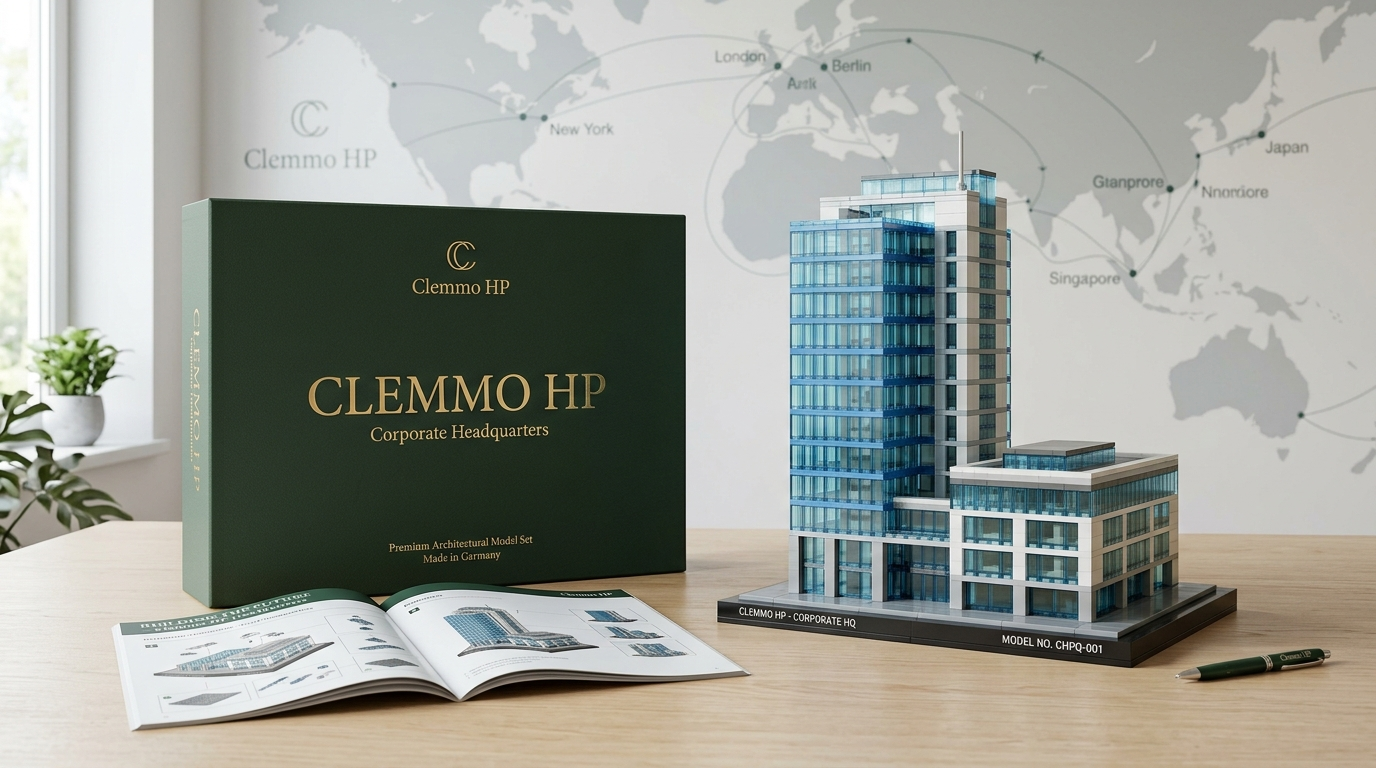
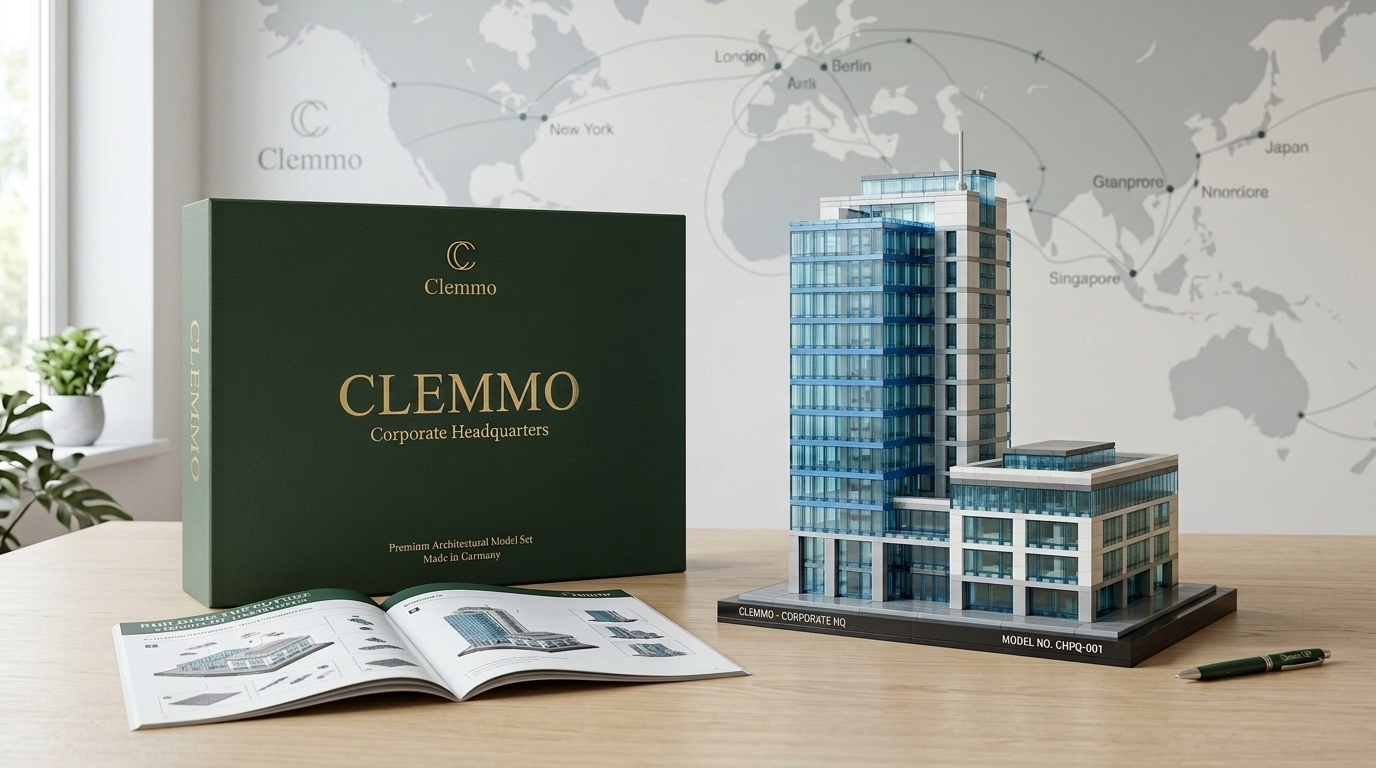
hp

diff --git a/src/components/about/About.jsx b/src/components/about/About.jsx
@@ -64,7 +64,7 @@ export default function About() {
   ];
 
   return (
-    <section id="ueber-uns" className="about-section" aria-label="Über Clemmo HP">
+    <section id="ueber-uns" className="about-section" aria-label="Über Clemmo">
       {/* Subtle organic curved transition edge overlapping the hero */}
       <div className="about-curved-boundary" aria-hidden="true">
         <svg viewBox="0 0 1440 60" fill="none" preserveAspectRatio="none" className="about-curve-svg">
@@ -79,7 +79,7 @@ export default function About() {
           <div className="about-content-col">
             <div className="about-eyebrow">
               <span className="about-eyebrow-rule" aria-hidden="true" />
-              <span className="about-eyebrow-text">Über Clemmo HP</span>
+              <span className="about-eyebrow-text">ÜBER CLEMMO</span>
             </div>
 
             <h2 className="about-headline">
@@ -145,9 +145,9 @@ export default function About() {
                 className="about-model-image"
                 loading="lazy"
               />
-              <div className="about-image-badge" aria-hidden="true">
+              <div className="ai-image-badge" aria-hidden="true">
                 <span className="badge-dot" />
-                <span>MAẞGESCHNEIDERTES CLEMMO MODELL</span>
+                <span>KI-generiertes Bild</span>
               </div>
             </div>
           </div>
@@ -172,6 +172,10 @@ export default function About() {
                     className="capability-thumbnail"
                     loading="lazy"
                   />
+                  <div className="ai-image-badge" aria-hidden="true">
+                    <span className="badge-dot" />
+                    <span>KI-generiertes Bild</span>
+                  </div>
                 </div>
               </div>
             ))}

diff --git a/src/components/process/ProcessStep.jsx b/src/components/process/ProcessStep.jsx
@@ -16,7 +16,7 @@ export const PROCESS_STEPS = [
       'Wir besprechen Ihre Anforderungen, Ziele und Vorstellungen und entwickeln darauf basierend ein maßgeschneidertes Konzept für Ihr individuelles Set.',
     imageSrc: '/process/step1_concept.jpg',
     imageAlt: 'Clemmo Modell- und Set-Skizzen auf Studiotisch mit Bausteinen',
-    badge: 'KONZEPT & SKIZZE',
+    badge: 'KI-generiertes Bild',
   },
   {
     id: '02',
@@ -29,7 +29,7 @@ export const PROCESS_STEPS = [
       'Unsere Designer entwickeln detaillierte Modelle und Konstruktionspläne – präzise, markengerecht und mit Blick auf Funktion, Ästhetik und Umsetzbarkeit.',
     imageSrc: '/process/step2_design.jpg',
     imageAlt: 'Maßgeschneidertes Baukastenmodell mit digitalem 3D-CAD-Entwurf im Hintergrund',
-    badge: '3D-CAD & MODELLBAU',
+    badge: 'KI-generiertes Bild',
   },
   {
     id: '03',
@@ -42,7 +42,7 @@ export const PROCESS_STEPS = [
       'Wir koordinieren die Produktion mit ausgewählten Partnern und achten auf höchste Qualitätsstandards, damit Ihr Set exakt nach Ihren Vorgaben umgesetzt wird.',
     imageSrc: '/process/step3_production.jpg',
     imageAlt: 'Präzisionsgefertigte Baukastenkomponenten und optische Qualitätskontrolle in Reinraum-Fertigung',
-    badge: 'PRÄZISIONSFERTIGUNG',
+    badge: 'KI-generiertes Bild',
   },
   {
     id: '04',
@@ -55,7 +55,7 @@ export const PROCESS_STEPS = [
       'Ihr individuelles Set wird weltweit geliefert. Wir unterstützen Sie auch nach der Lieferung und stehen bei weiteren Projekten jederzeit gerne zur Seite.',
     imageSrc: '/process/step4_delivery.jpg',
     imageAlt: 'Vollendetes Clemmo Modell mit edler Markenverpackung und weltweitem Logistikservice',
-    badge: 'FERTIGES SET & LOGISTIK',
+    badge: 'KI-generiertes Bild',
   },
 ];
 

diff --git a/src/components/quality/Quality.jsx b/src/components/quality/Quality.jsx
@@ -123,12 +123,16 @@ export default function Quality() {
               <div className="feature-panel-visual">
                 <img
                   src="/quality/quality_macro_bricks.jpg"
-                  alt="Detailaufnahme präzise gefertigter Clemmo HP Bausteine"
+                  alt="Detailaufnahme präzise gefertigter Clemmo Bausteine"
                   className="feature-panel-img"
                   loading="lazy"
                   decoding="async"
                 />
                 <div className="feature-panel-overlay" aria-hidden="true" />
+                <div className="ai-image-badge" aria-hidden="true">
+                  <span className="badge-dot" />
+                  <span>KI-generiertes Bild</span>
+                </div>
               </div>
             </div>
           </div>
@@ -137,14 +141,14 @@ export default function Quality() {
           <div className="quality-visual-container">
             <img
               src="/quality/quality_main_model.jpg"
-              alt="Architektonisches Baukastenmodell eines modernen Firmenhauptsitzes mit Konstruktionsplänen und Präzisionswerkzeugen"
+              alt="Baukastenmodell eines modernen Firmengebäudes mit Konstruktionsplänen und Präzisionswerkzeugen"
               className="quality-main-img"
               loading="lazy"
               decoding="async"
             />
-            <div className="quality-visual-badge">
-              <span className="badge-dot-green" aria-hidden="true" />
-              <span>QUALITÄTSSTANDARDS & PRÜFUNG</span>
+            <div className="ai-image-badge" aria-hidden="true">
+              <span className="badge-dot" />
+              <span>KI-generiertes Bild</span>
             </div>
           </div>
         </div>

diff --git a/src/index.css b/src/index.css
@@ -90,3 +90,56 @@ button:focus-visible {
   outline: 2px solid var(--color-text-main);
   outline-offset: 4px;
 }
+
+/* ==========================================================================
+   AI DISCLOSURE BADGE ("KI-generiertes Bild")
+   Matches exact pill style: dark frosted background with mint accent dot.
+   ========================================================================== */
+.ai-image-badge {
+  position: absolute;
+  bottom: 1.15rem;
+  right: 1.15rem;
+  display: inline-flex;
+  align-items: center;
+  gap: 0.55rem;
+  background: rgba(13, 23, 21, 0.88);
+  backdrop-filter: blur(10px);
+  -webkit-backdrop-filter: blur(10px);
+  padding: 0.45rem 0.95rem;
+  border-radius: 9999px;
+  font-size: 0.72rem;
+  font-weight: 700;
+  letter-spacing: 0.08em;
+  color: #ffffff;
+  border: 1px solid rgba(87, 120, 119, 0.35);
+  box-shadow: 0 4px 18px rgba(0, 0, 0, 0.35);
+  pointer-events: none;
+  z-index: 10;
+  white-space: nowrap;
+}
+
+.ai-image-badge .badge-dot,
+.badge-dot {
+  width: 7px;
+  height: 7px;
+  background-color: #5ce6b0;
+  border-radius: 50%;
+  box-shadow: 0 0 8px #5ce6b0;
+  flex-shrink: 0;
+}
+
+@media (max-width: 768px) {
+  .ai-image-badge {
+    bottom: 0.75rem;
+    right: 0.75rem;
+    font-size: 0.64rem;
+    padding: 0.36rem 0.78rem;
+    gap: 0.45rem;
+  }
+
+  .ai-image-badge .badge-dot,
+  .badge-dot {
+    width: 6px;
+    height: 6px;
+  }
+}

diff --git a/src/components/contact/ContactInfo.jsx b/src/components/contact/ContactInfo.jsx
@@ -11,11 +11,15 @@ export default function ContactInfo() {
       <div className="contact-building-image-wrap">
         <img
           src="/contact/contact_headquarters.jpg"
-          alt="Clemmo HP Unternehmenssitz und Entwicklungsstudio"
+          alt="Clemmo Unternehmenssitz und Entwicklungsstudio"
           className="contact-building-image"
           loading="lazy"
           decoding="async"
         />
+        <div className="ai-image-badge" aria-hidden="true">
+          <span className="badge-dot" />
+          <span>KI-generiertes Bild</span>
+        </div>
       </div>
 
       {/* Bottom: 2-Column Direct Contact Information Block */}
@@ -31,7 +35,7 @@ export default function ContactInfo() {
           <div className="info-content">
             <span className="info-label">Adresse</span>
             <div className="info-value address-lines">
-              <strong>Clemmo HP</strong>
+              <strong>Clemmo</strong>
               <span>[Adresse]</span>
               <span>[PLZ Ort]</span>
               <span>Deutschland</span>

diff --git a/src/components/footer/Footer.jsx b/src/components/footer/Footer.jsx
@@ -52,11 +52,15 @@ export default function Footer() {
           <div className="footer-cta-media">
             <img
               src="/footer/footer_cta_model.jpg"
-              alt="Architektonisches Baukastenmodell eines modernen Firmengebäudes bei Nacht"
+              alt="Baukastenmodell eines modernen Firmengebäudes bei Nacht"
               className="footer-cta-img"
               loading="lazy"
               decoding="async"
             />
+            <div className="ai-image-badge" aria-hidden="true">
+              <span className="badge-dot" />
+              <span>KI-generiertes Bild</span>
+            </div>
           </div>
         </div>
       </div>

diff --git a/src/components/about/about.css b/src/components/about/about.css
@@ -298,6 +298,7 @@
 }
 
 .capability-thumbnail-wrapper {
+  position: relative;
   margin-top: 0.4rem;
   width: 100%;
   border-radius: 12px;
@@ -306,6 +307,14 @@
   box-shadow: 0 6px 18px rgba(22, 38, 35, 0.08);
   border: 1px solid rgba(87, 120, 119, 0.2);
   transition: transform 0.3s ease, box-shadow 0.3s ease;
+}
+
+.capability-thumbnail-wrapper .ai-image-badge {
+  bottom: 0.75rem;
+  right: 0.75rem;
+  font-size: 0.65rem;
+  padding: 0.35rem 0.75rem;
+  gap: 0.45rem;
 }
 
 .capability-thumbnail-wrapper:hover {

diff --git a/src/components/contact/ContactForm.jsx b/src/components/contact/ContactForm.jsx
@@ -67,7 +67,7 @@ export default function ContactForm() {
           </div>
           <h4 className="success-title">Vielen Dank für Ihre Nachricht!</h4>
           <p className="success-description">
-            Wir haben Ihre Anfrage erhalten. Ein Berater von Clemmo HP wird sich schnellstmöglich bei Ihnen melden.
+            Wir haben Ihre Anfrage erhalten. Ein Berater von Clemmo wird sich schnellstmöglich bei Ihnen melden.
           </p>
           <button
             type="button"

diff --git a/src/components/products/Products.jsx b/src/components/products/Products.jsx
@@ -42,7 +42,7 @@ export default function Products() {
       title: 'Kleine Sets',
       description: 'Kompakte Sets, ideal für Promotions, Give-aways und Markenpräsenz.',
       image: './products/product_small.jpg',
-      alt: 'Kompakte Clemmo HP Klemmbaustein-Sets für Give-aways und Promotions',
+      alt: 'Kompakte Clemmo Klemmbaustein-Sets für Give-aways und Promotions',
       points: [
         {
           text: 'Ideal für Marketing & Events',

diff --git a/src/components/contact/Contact.jsx b/src/components/contact/Contact.jsx
@@ -149,7 +149,7 @@ export default function Contact() {
               <div className="location-map-frame">
                 <img
                   src="/contact/contact_location_map.jpg"
-                  alt="Kartografische Lage des Clemmo HP Studios"
+                  alt="Kartografische Lage des Clemmo Studios"
                   className="location-map-image"
                   loading="lazy"
                   decoding="async"

diff --git a/src/components/products/ProductCard.jsx b/src/components/products/ProductCard.jsx
@@ -27,6 +27,10 @@ export default function ProductCard({
           className="product-card-img"
           loading="lazy"
         />
+        <div className="ai-image-badge" aria-hidden="true">
+          <span className="badge-dot" />
+          <span>KI-generiertes Bild</span>
+        </div>
       </div>
 
       {/* Card Content Body */}

diff --git a/src/components/contact/GermanyMap.jsx b/src/components/contact/GermanyMap.jsx
@@ -40,7 +40,7 @@ export default function GermanyMap() {
           fontFamily="system-ui, -apple-system, sans-serif"
           letterSpacing="0.02em"
         >
-          Clemmo HP
+          Clemmo
         </text>
       </svg>
     </div>
